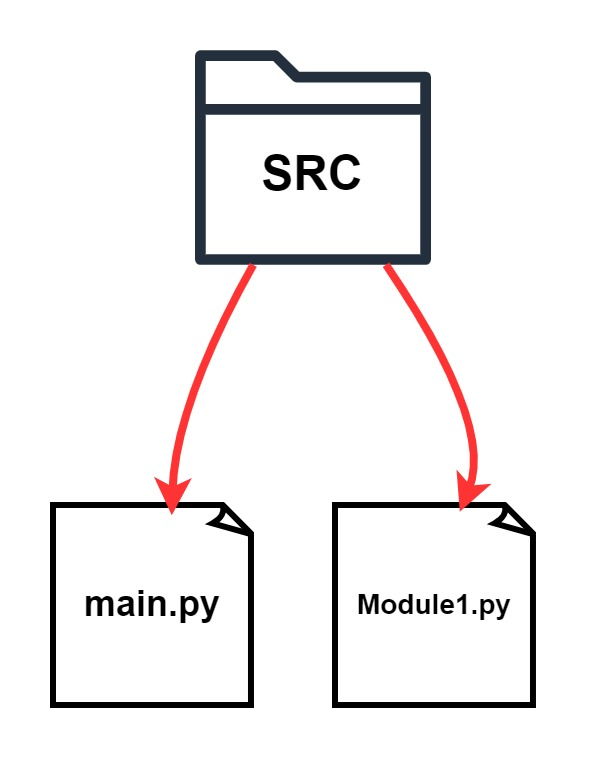
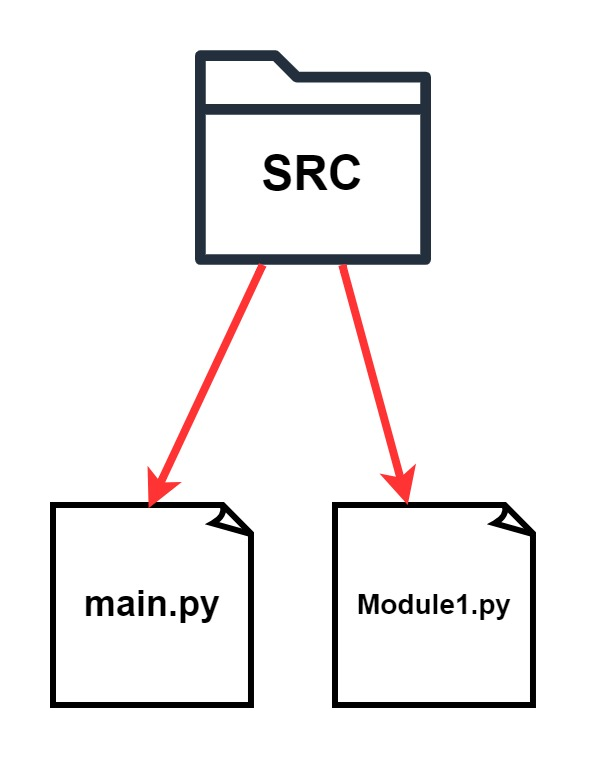
Sync

diff --git a/ArrowDetection.py b/ArrowDetection.py
@@ -1,0 +1,41 @@
+import cv2
+import numpy as np
+
+def preprocess(img):
+    img_gray = cv2.cvtColor(img, cv2.COLOR_BGR2GRAY)
+    img_blur = cv2.GaussianBlur(img_gray, (5, 5), 1)
+    img_canny = cv2.Canny(img_blur, 50, 50)
+    kernel = np.ones((3, 3))
+    img_dilate = cv2.dilate(img_canny, kernel, iterations=2)
+    img_erode = cv2.erode(img_dilate, kernel, iterations=1)
+    return img_erode
+
+def find_tip(points, convex_hull):
+    length = len(points)
+    indices = np.setdiff1d(range(length), convex_hull)
+
+    for i in range(2):
+        j = indices[i] + 2
+        if j > length - 1:
+            j = length - j
+        if np.all(points[j] == points[indices[i - 1] - 2]):
+            return tuple(points[j])
+
+img = cv2.imread("D:\cyber\Documents\GitHub\DSIS\Design\Design.jpg")
+
+contours, hierarchy = cv2.findContours(preprocess(img), cv2.RETR_EXTERNAL, cv2.CHAIN_APPROX_NONE)
+
+for cnt in contours:
+    peri = cv2.arcLength(cnt, True)
+    approx = cv2.approxPolyDP(cnt, 0.025 * peri, True)
+    hull = cv2.convexHull(approx, returnPoints=False)
+    sides = len(hull)
+
+    if 6 > sides > 3 and sides + 2 == len(approx):
+        arrow_tip = find_tip(approx[:,0,:], hull.squeeze())
+        if arrow_tip:
+            cv2.drawContours(img, [cnt], -1, (0, 255, 0), 3)
+            cv2.circle(img, arrow_tip, 3, (0, 0, 255), cv2.FILLED)
+
+cv2.imwrite("arrows.jpeg", preprocess(img))
+#cv2.waitKey(0)

diff --git a/RedundancyFinderMatrix.py b/RedundancyFinderMatrix.py
@@ -1,0 +1,17 @@
+import numpy as np
+
+# Define the matrix
+matrix = np.array([[0,2,0,0,-1,0,0],
+                   [0,10,0,0,0,0,0],
+                   [0,0,2,-1,-3,-2,0],
+                   [1,0,0,-1,0,0,0],
+                   [0,35,4,-4,0,-1,0],
+                   [1,0,1,0,0,0,0],
+                   [1,0,1,0,0,0,0]])
+
+# Perform rank check to identify redundancy
+rank = np.linalg.matrix_rank(matrix)
+redundant_rows = len(matrix) - rank
+redundant_rows
+
+print(redundant_rows)

diff --git a/ExtractNames.py b/ExtractNames.py
@@ -3,7 +3,6 @@ import easyocr
 import cv2
 import os
 import numpy as np
-
 # the ocr object that runs detection
 ocr = easyocr.Reader(['en'], gpu=True)
 
@@ -25,6 +24,7 @@ def ExtractNamesText(imgPath=None):
 
     # read the image
     image = cv2.imread(imgPath)
+    gray_image = cv2.cvtColor(image, cv2.COLOR_BGR2GRAY)
 
     # run the OCR
     baseResult = ocr.readtext(imgPath, mag_ratio=8.0, adjust_contrast=2)
